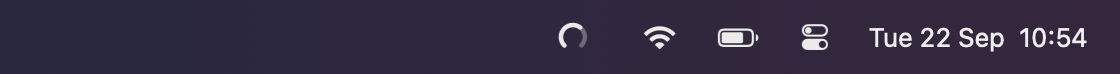
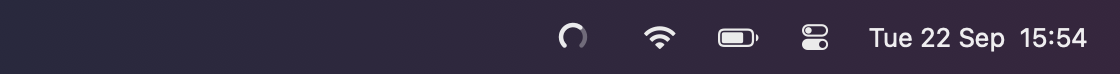
stop tracking a weekly Opus window
Claude no longer reports a separate weekly limit for its largest
model, so the row was an invention the panel kept drawing. Out goes
the kind, the seven_day_opus key it matched on and the fixture that
put it in the readme pictures, which are retaken here.

Changed region(s): [[0.8125, 0.3784, 0.9375, 0.6486]]

diff --git a/Sources/Cooldown/Core/Models.swift b/Sources/Cooldown/Core/Models.swift
@@ -36,14 +36,12 @@ struct UsageWindow: Equatable, Identifiable {
     enum Kind: String, Equatable {
         case fiveHour
         case weekly
-        case weeklySecondary   // Claude reports a separate weekly window for its largest model
         case spend
 
         var label: String {
             switch self {
             case .fiveHour: return "5-hour"
             case .weekly: return "Weekly"
-            case .weeklySecondary: return "Weekly · Opus"
             case .spend: return "Spend"
             }
         }
@@ -53,8 +51,7 @@ struct UsageWindow: Equatable, Identifiable {
             switch self {
             case .fiveHour: return 0
             case .weekly: return 1
-            case .weeklySecondary: return 2
-            case .spend: return 3
+            case .spend: return 2
             }
         }
     }
@@ -83,7 +80,7 @@ struct UsageWindow: Equatable, Identifiable {
     var length: TimeInterval? {
         switch kind {
         case .fiveHour: return 5 * 3600
-        case .weekly, .weeklySecondary: return 7 * 24 * 3600
+        case .weekly: return 7 * 24 * 3600
         case .spend: return nil
         }
     }

diff --git a/Sources/Cooldown/Core/Fixtures.swift b/Sources/Cooldown/Core/Fixtures.swift
@@ -11,7 +11,6 @@ enum Fixtures {
             .ok(ProviderSnapshot(provider: .claude, windows: [
                 window(.fiveHour, used: fiveHourUsed, resetsIn: fiveHourUsed == 0 ? nil : 3 * 3600 + 12 * 60),
                 window(.weekly, used: 36, resetsIn: 2 * 86400 + 12 * 3600),
-                window(.weeklySecondary, used: 9, resetsIn: 2 * 86400 + 12 * 3600),
             ], source: "fixture", capturedAt: now))
         }
         func codex(fiveHourUsed: Double) -> ProviderState {

diff --git a/Sources/Cooldown/Providers/ClaudeProvider.swift b/Sources/Cooldown/Providers/ClaudeProvider.swift
@@ -102,7 +102,6 @@ struct ClaudeProvider: UsageProvider {
         let candidates: [(UsageWindow.Kind, [String])] = [
             (.fiveHour, ["five_hour", "fiveHour", "5h"]),
             (.weekly, ["seven_day", "sevenDay", "seven_day_sonnet", "week", "7d"]),
-            (.weeklySecondary, ["seven_day_opus", "sevenDayOpus", "seven_day_large"]),
             (.spend, ["spend_limit", "spendLimit"]),
         ]
 
